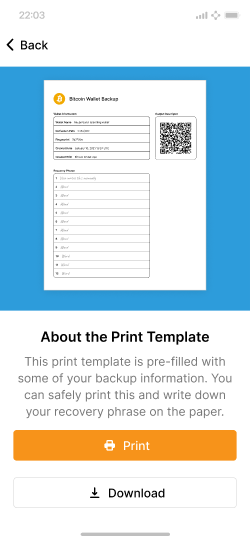
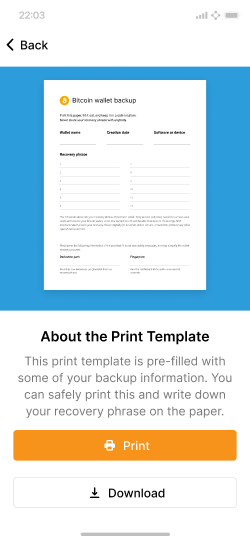
Switched printable template to community file

diff --git a/guide/daily-spending-wallet/backup-and-recovery/manual-backup.md b/guide/daily-spending-wallet/backup-and-recovery/manual-backup.md
@@ -208,6 +208,8 @@ This wallet also offers the user a printable template they can use to write down
 
 Some non-sensitive data (such as the name of your wallet or the derivation path) could be included pre-filled in the template. An output script descriptor could be included as a QR code to ensure the wallet software knows how to restore the wallet properly. However, the user should always be required to write in sensitive data such as the recovery phrase by hand.
 
+[Printable Template Figma File](https://www.figma.com/community/file/1110806582648546839){: .button }
+
 <div class="image-slide-gallery">
 
 {% include picture.html
